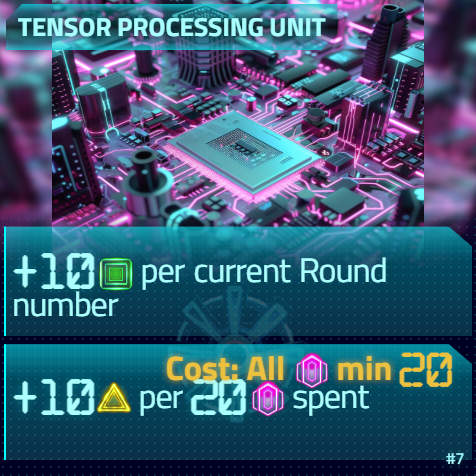
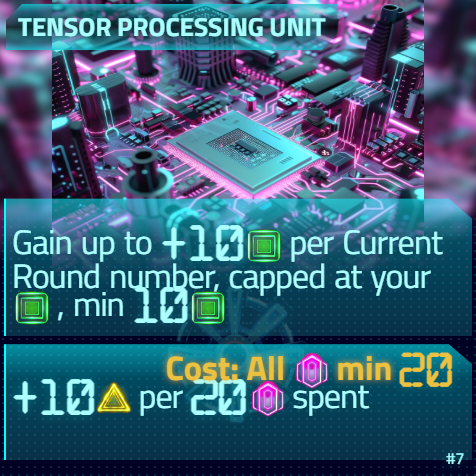
even less actions, just the good ones

Changed region(s): [[0.0, 0.4118, 1.0, 0.7059]]

diff --git a/src/components/SingularityCards2.js b/src/components/SingularityCards2.js
@@ -283,7 +283,7 @@ const initialCards =[
     "img": "/chatgpt-apps3/static/media/miner.420d71acefb95e6f2e83.jpg",
     "title": "Data Mining",
     "action1": "Test Linear Regression",
-    "details1": "+10 Data per 20 total data and score",
+    "details1": "+10 Data per 20 data or 20 score min 10 data",
     "action2": "Learn Deeply",
     "details2": "+10 score per card in your discard pile ",
     "cost": "20 processing per card",
@@ -294,7 +294,7 @@ const initialCards =[
     "img": "https://cdn.midjourney.com/d22dba27-cc34-49ee-bc4a-a29cbc66142f/0_0.png",
     "title": "Tensor Processing Unit",
     "action1": "Select optimizer algorithm",
-    "details1": "+10 processing per current Round number",
+    "details1": "Gain up to +10 processing per Current Round number, capped at your processing , min 10 processing",
     "action2": "Multiply the Matrix",
     "details2": "+10 Score per 20 Data spent",
     "cost": "All Data  min 20",
@@ -340,8 +340,8 @@ const initialCards =[
     "action1": "Apply swarm solutions",
     "details1": "Both players get +10 data per 20 data total of both players ",
     "action2": "Release the Swarm",
-    "details2": "Steal up to as much data from opponent as processing spent",
-    "cost": "All processing",
+    "details2": "+40 processing",
+    "cost": "20 processing or 20 data",
     "id": 6,
     "type": "hc"
   },
@@ -362,8 +362,8 @@ const initialCards =[
     "action1": "Detect objects",
     "details1": "Next round you get double processing from all actions affecting you",
     "action2": "Tune model",
-    "details2": "Competition: The player with highest reached data starting now get +40 score at end of game",
-    "cost": "20 Data  or 30 processing",
+    "details2": "Competition: The player with the most data after 3 \nmore rounds gets +40 score",
+    "cost": "20 Data  or 10 processing",
     "id": "9",
     "type": "base"
   },
@@ -440,7 +440,7 @@ const initialCards =[
     "details1": "",
     "action2": "Evolve Sequence",
     "details2": "",
-    "cost": "All processing",
+    "cost": "",
     "id": 20,
     "type": "hc"
   },
@@ -481,10 +481,10 @@ const initialCards =[
     "img": "https://cdn.midjourney.com/7a0a97c8-4b58-46be-8449-2f40d64e62cf/0_3.png",
     "title": "Blockchain",
     "action1": "Pump and dump",
-    "details1": "",
+    "details1": "Block all delayed cards that trigger this round, blocked cards go to your discard pile",
     "action2": "Hodl",
-    "details2": "",
-    "cost": "",
+    "details2": "In 2 rounds, get +50 data or processing same as you spent",
+    "cost": "20 data or 20 processing",
     "id": "31",
     "type": "v2"
   },
@@ -494,8 +494,8 @@ const initialCards =[
     "action1": "Connect remotely",
     "details1": "Next round all Data gain is doubled for both players",
     "action2": "Roll over data",
-    "details2": "+10 data per 10 processing spent",
-    "cost": "All processing",
+    "details2": "+10 data per 10 processing spent or +10 processing per 10 data spent",
+    "cost": "All data or All processing",
     "id": "34",
     "type": "v2"
   },
@@ -514,10 +514,10 @@ const initialCards =[
     "img": "https://cdn.midjourney.com/553dcd0f-4029-4a32-9b8e-4b57f1c186f3/0_1.png",
     "title": "Virtual Reality",
     "action1": "Ready Player One",
-    "details1": "+20 processing In 3 \nrounds trigger this action again",
+    "details1": "",
     "action2": "Enter Matrix ",
-    "details2": "Swap 1 card in hand with 1 card in any discard pile, blocking delayed actions on that card",
-    "cost": "10 data or 10 processing",
+    "details2": "",
+    "cost": "",
     "id": "39",
     "type": "v2"
   },
@@ -538,7 +538,7 @@ const initialCards =[
     "action1": "Benchmark LINPACK",
     "details1": "Set your data to 30",
     "action2": "Achieve petaflop",
-    "details2": "+10 score per 10 of your lowest data or processing",
+    "details2": "+10 score per 10  of your lowest data or processing",
     "cost": "All data and All Processing",
     "id": "43",
     "type": "hc"
@@ -593,8 +593,8 @@ const initialCards =[
     "action1": "Tunnel TV",
     "details1": "+30 processing",
     "action2": "Trick tyrant",
-    "details2": "In 3 \nrounds, pick one of +70 data or +70 processing  or +30 score",
-    "cost": "40 data or 40 processing",
+    "details2": "Competition: Any player with \"Data Protection\" in their discard pile at game end get +40 score",
+    "cost": "20 data or 20 processing",
     "id": "51",
     "type": "v3"
   },
@@ -604,7 +604,7 @@ const initialCards =[
     "action1": "Block incoming traffic ",
     "details1": "+10 data per card in your opponents discard pile",
     "action2": "Disable \"temporarily\"",
-    "details2": "Competition: Any player with \"Data Protection\" in their discard pile at game end get +40 score",
+    "details2": "+40 data",
     "cost": "20 data or 20 processing",
     "id": "53",
     "type": "v3"
@@ -624,10 +624,10 @@ const initialCards =[
     "img": "/chatgpt-apps3/static/media/wave.faa8981834be144fedec.png",
     "title": "Natural Language Processing",
     "action1": "Pre-train generative transformer",
-    "details1": "Block all delayed cards that trigger this round, blocked cards go to your discard pile",
+    "details1": "",
     "action2": "Tokenize world",
-    "details2": "+30 processing per 20 data spent",
-    "cost": "All data",
+    "details2": "",
+    "cost": "",
     "id": "55",
     "type": "v3"
   },
